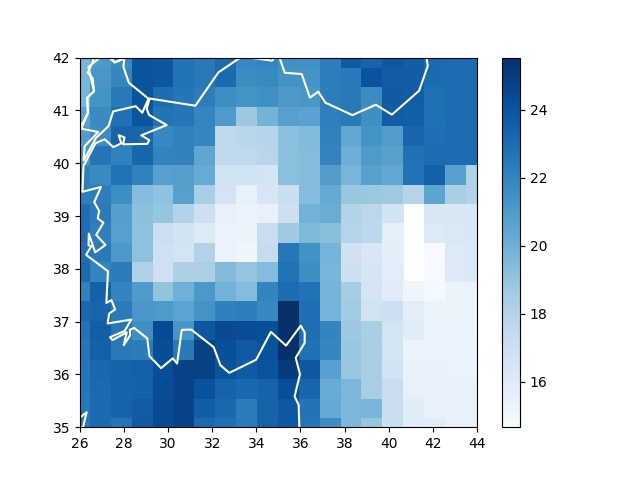
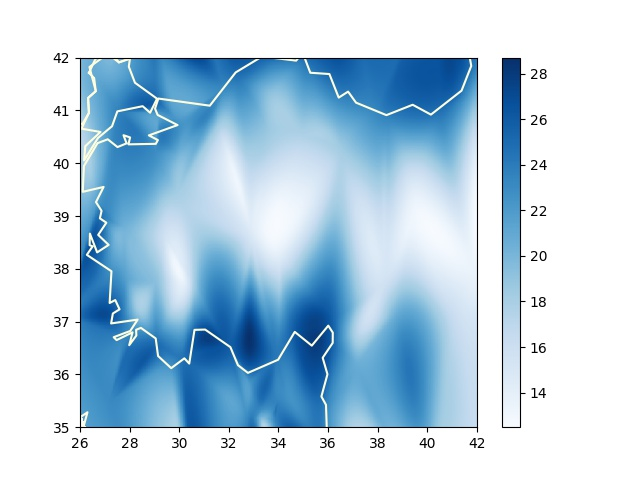
-

diff --git a/sk/2023/06/iklim-nem-verisi.md b/sk/2023/06/iklim-nem-verisi.md
@@ -216,33 +216,11 @@ toparlayıp renksel haritalama yapabiliriz, TR örneği,
 ```python
 import numpy as np, glob, simplegeomap as sm, quads
 import pandas as pd, os, matplotlib.pyplot as plt
+from scipy.interpolate import NearestNDInterpolator, CloughTocher2DInterpolator
 
 def cdist(p1,p2):    
     distances = np.linalg.norm(p1 - p2, axis=1)
     return distances
-
-class QuadTreeInterpolator:
-    def __init__(self, x, y):
-        self.tree = quads.QuadTree((np.mean(x), np.mean(y)), 100, 100)
-
-    def cell_interp(self, x, y, points):
-        a = np.array([x,y]).reshape(-1,2)
-        b = np.array(points)[:,:2]
-        ds = cdist(a,b)
-        ds = ds / np.sum(ds)
-        ds = 1. - ds
-        c = np.array(points)[:,2]
-        iz = np.sum(c * ds) / np.sum(ds)
-        return iz
-
-    def append(self, x, y, z):
-        for xx,yy,zz in zip(x,y,z):
-            self.tree.insert((xx,yy),data=zz)
-            
-    def interpolate(self,x,y):
-        res = self.tree.nearest_neighbors((x,y), count=4)
-        points = np.array([[c.x, c.y, c.data] for c in res])
-        return self.cell_interp(x, y, points)               
 
 clat,clon,zoom = 39,34,2
 
@@ -255,14 +233,12 @@ sm.plot_continents(clat,clon,zoom=zoom,outcolor='white', fill=False)
 
 stats = df.loc[s[:140]]
 
-q = QuadTreeInterpolator(np.array(stats.lon), np.array(stats.lat))
+interp = CloughTocher2DInterpolator(list(zip(stats.lon, stats.lat)), stats.wbt)
 
-q.append(np.array(stats.lon), np.array(stats.lat), np.array(stats.wbt))
-interp = np.vectorize(q.interpolate,otypes=[np.float64])
-xi,yi = np.meshgrid(np.linspace(26,44,20),np.linspace(35,42,20))
+xi,yi = np.meshgrid(np.linspace(26,44,640),np.linspace(35,42,480))
 zi = interp(xi, yi)
 
-plt.xlim(26,44)
+plt.xlim(26,42)
 plt.ylim(35,42)
 im = plt.pcolormesh(xi,yi,zi,cmap='Blues',shading='auto')
 plt.colorbar(im)
@@ -271,6 +247,24 @@ plt.savefig('iklim03.jpg')
 ```
 
 ![](iklim03.jpg)
+
+Tüm dünya için
+
+```python
+fig, ax = plt.subplots(figsize=(20,12))
+...
+stats = pd.read_csv('wbt_max.csv')
+stats = stats.dropna()
+interp = NearestNDInterpolator(list(zip(stats.lon, stats.lat)), stats.wbt)
+xi,yi = np.meshgrid(np.linspace(-180,180,640),np.linspace(0,90,480))
+zi = interp(xi, yi)
+im = ax.pcolormesh(xi,yi,zi,cmap='Blues',shading='auto')
+plt.colorbar(im)
+plt.ylim(0,80)
+plt.xlim(-180,180)
+```
+
+gibi bir kod işletilebilir.
 
 Kaynaklar
 
@@ -284,4 +278,5 @@ Kaynaklar
 
 [5] <a href="https://www.metoffice.gov.uk/hadobs/hadisdh/downloadEXTREMES.html">Hadisdh Ekstrem Degerler</a>
 
-[6] <a href="../../2021/12/netcdf-wind-historical-noaa-iklim-veri.md">Iklim Verileri</a>
+[6] <a href="../../2021/12/netcdf-wind-historical-noaa-iklim-veri.html">Iklim Verileri</a>
+
